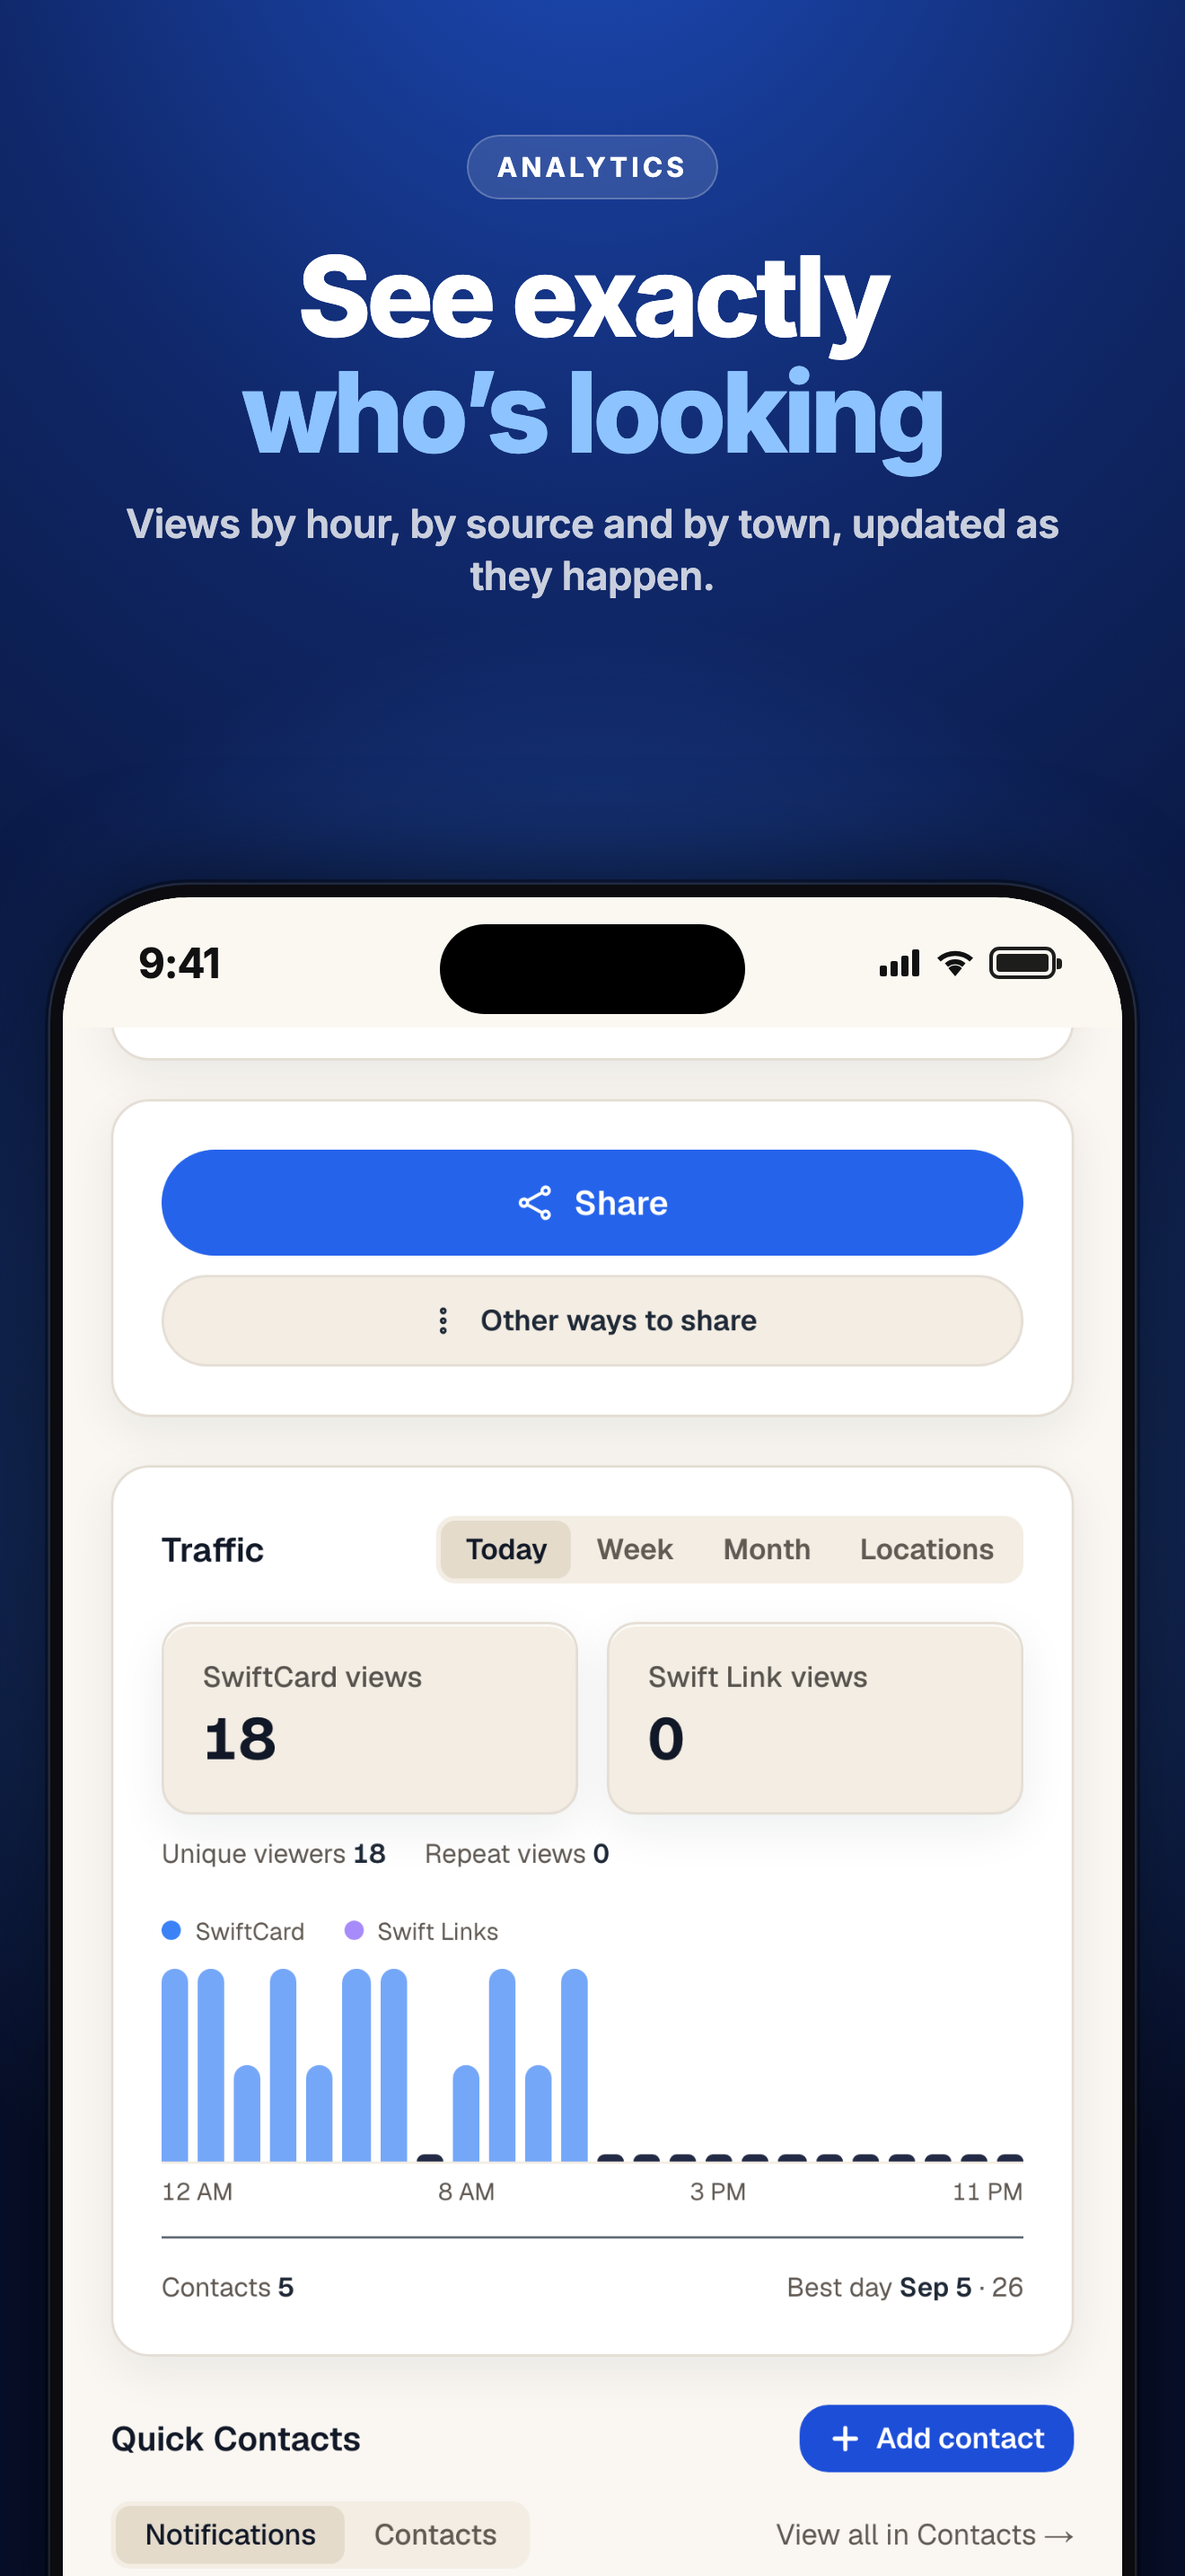
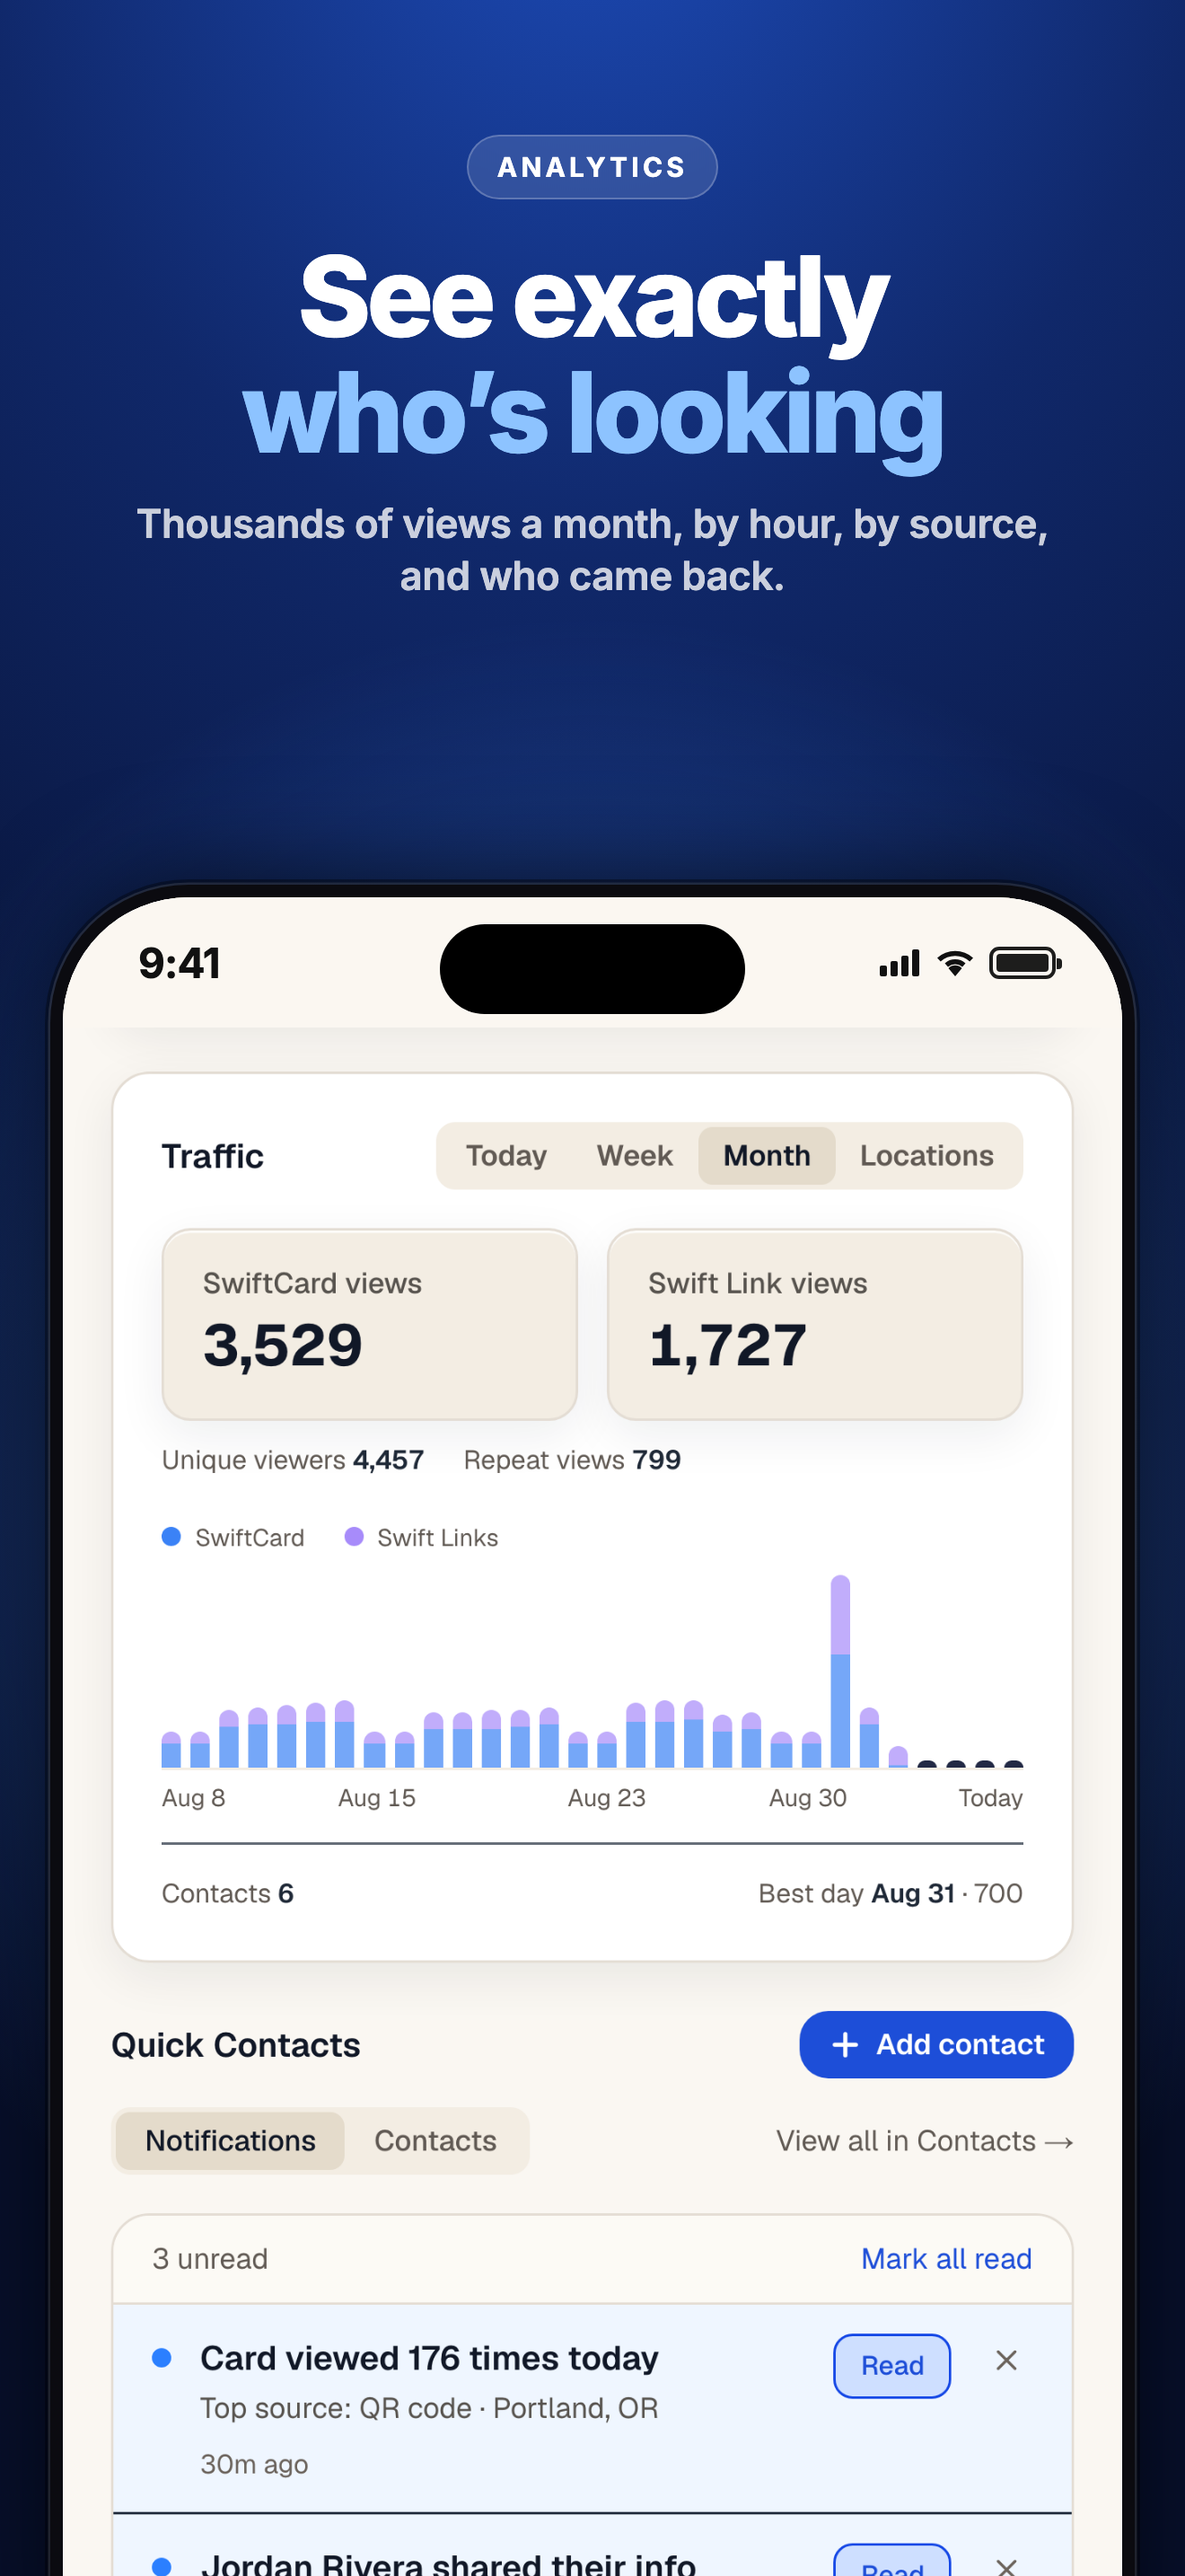
App Store screenshots v3: busy Pro account seed, ten frames
Seed a month of views on both surfaces (thousands), six fully filled
contacts with notes, where-met, share-back messages, consent and running
email+text sequences with real first names, card_events, a sent follow-up
with a reply, and notifications. Shoot the public card with the share-back
form filled in, the dashboard on the Month and Locations tabs, and the
contact panel scrolled to its automations (it scrolls inside a container).
Cleanup covers every table the seed touches.

Claude-Session: https://claude.ai/code/session_015rMqrGrkAJm7Htgrv2DftG

Changed region(s): [[0.0932, 0.4344, 0.9318, 1.0], [0.0932, 0.1862, 0.6833, 0.2483], [0.7144, 0.1862, 0.9008, 0.2172]]

diff --git a/app-store/screenshots/6.9-inch-v3/README.md b/app-store/screenshots/6.9-inch-v3/README.md
@@ -1,29 +1,40 @@
 # 6.9-inch App Store screenshots (1320 × 2868) — v3
 
-Eight frames, built 2026-09-06, replacing the v2 set. Same persona (Lena
-Brooks, photographer), same real screens, a stronger frame.
+Ten frames (Apple's maximum), built 2026-09-06, replacing the v2 set. Same
+persona (Lena Brooks, photographer), real screens, a busier account and a
+stronger frame.
 
 ## What changed from v2, and why
 
+- **The account behind the screens is a working Pro account.** v2's seed had
+  five contacts with no notes, zero Swift Link views, "No notifications yet"
+  and a fortnight of double-digit view days — an empty product. The seed now
+  writes a month of views on both surfaces (≈4,300 card, ≈2,000 Swift Links,
+  one spike day, weekend dips, repeat visitors), six contacts with company,
+  town, where-you-met, notes, a share-back message, `sms-ok` consent and a
+  running email + text sequence (day-0 items already sent), card_events for
+  the Conversation tab, a sent follow-up with a reply in `lead_messages`, and
+  three notifications. Nothing on any frame reads "No notes", "Not set",
+  "no flow" or `0`.
+- **The share-back is shown happening.** Frame 02 is the public card with
+  the "Share your info with Lena" form filled in as Jordan; frame 03 has
+  Jordan in Contacts; frames 04–05 open Jordan's record. One lead, followed
+  from the tap to the follow-up.
 - **The phone is bigger and runs off the bottom edge.** A search-result
-  thumbnail is ~200px tall. v2 fitted the whole phone inside the frame, so the
-  app itself was a third of the pixels. v3 lets the device bleed off the
-  bottom, which is how every top-grossing listing buys screen size.
-- **Status bar and Dynamic Island inside the glass.** The captures are web
-  renders with no system chrome; a bare page in a phone silhouette read as a
-  website in a picture frame. Light pages get a bar in their own page colour,
-  the Swift Links photo cover gets white glyphs laid over the image.
+  thumbnail is ~200px tall; v2 fitted the whole phone inside the frame, so
+  the app was a third of the pixels.
+- **Status bar and Dynamic Island inside the glass.** Bare web renders in a
+  phone silhouette read as a website in a picture frame.
 - **A kicker pill names the feature** above the headline, and one phrase per
-  headline is set in the accent tint. v2's flat white text had no hierarchy.
+  headline is set in the accent tint.
 - **The tab bar no longer floats mid-screen.** Full-page captures paint
-  position:fixed chrome once at the first viewport's bottom edge, so v2's
-  dashboard frame had the tab bar sitting above the traffic chart.
-  `appstore-capture.mjs` now hides `.sc-tabbar` and `.sc-help-bubble` for
-  full-page shots.
-- **Crops start on clean edges.** Every y offset was chosen from the capture
-  on disk so no frame opens on a half-sliced card or ends on a half button.
-- **Nine frames became eight.** v2's fifth frame (Swift Links tiles) showed
-  the same page as the fourth once the links went compact.
+  position:fixed chrome once at the first viewport's bottom edge; v2's
+  dashboard frame had the tab bar above the chart. `appstore-capture.mjs`
+  hides `.sc-tabbar` and `.sc-help-bubble` for full-page shots.
+- **The contact detail scrolls inside a panel**, so a full-page shot stops at
+  the first automation card. The capture scrolls the panel to "Notes &
+  context" and takes a viewport shot (`contact-detail-automations`).
+- **Crops start on clean edges**, chosen from the capture on disk.
 
 ## The set, in listing order
 
@@ -32,17 +43,20 @@ Search results show the first three, so the story has to land there.
 | # | Kicker | Caption | Screen |
 |---|---|---|---|
 | 01 | Digital business card | Your card. One link. | public card, top |
-| 02 | Save contact | They save you in one tap | Save Contact + share-back form |
-| 03 | Contacts | Every lead, in your pocket | Contacts with source badges |
-| 04 | Swift Links | All your links, one page | cover photo, bio, socials, links |
-| 05 | Swift Signature | Your card in every email | signature preview dialog |
-| 06 | Analytics | See exactly who's looking | Share buttons + traffic chart |
-| 07 | Share | QR, NFC and Apple Wallet | Share options incl. Add to Apple Wallet |
-| 08 | Follow-ups | It writes the follow-up for you | contact detail → automations |
+| 02 | Share back | They save you, then share back | Save Contact + the share-back form filled in |
+| 03 | Contacts | Every lead, in your pocket | six contacts with source badges |
+| 04 | Contact | Who they are, where you met | Jordan: contact info, notes, where met |
+| 05 | Follow-ups | It writes the follow-up for you | notes → automations, email sequence on, day-0 sent |
+| 06 | Analytics | See exactly who's looking | Month: 3,529 / 1,727 views, 30-bar chart, notifications |
+| 07 | Locations | Know which towns find you | Locations tab, eight towns split card / links |
+| 08 | Swift Links | All your links, one page | cover photo, bio, socials, links |
+| 09 | Swift Signature | Your card in every email | signature preview dialog |
+| 10 | Share | QR, NFC and Apple Wallet | Share options incl. Add to Apple Wallet |
 
 Every frame is a real screen of the running app (Apple 2.3.3): a caption, a
 status bar and a device frame around a real capture are allowed, a mocked-up
-slide is not.
+slide is not. The numbers are seeded, not invented on the frame — they are
+what the app computed from the rows the seed wrote.
 
 ## Regenerating
 
@@ -50,8 +64,9 @@ slide is not.
     node scripts/appstore-compose.mjs     # framed set    → this directory
 
 The capture script creates a throwaway Supabase account on whatever
-`.env.local` points at, seeds it, drives a real login, and deletes everything
-in a finally block. See the comments in it for the traps it encodes.
+`.env.local` points at, seeds it, drives a real login, and deletes every row
+it wrote (card_views on both keys, card_events, lead_messages, notifications,
+leads, card, profile, auth user) in a finally block.
 
 ## Uploading
 
@@ -62,4 +77,5 @@ is live and cannot accept screenshots. Target the pending version:
       node scripts/asc-upload-screenshots.mjs app-store/screenshots/6.9-inch-v3
 
 It deletes and recreates the APP_IPHONE_67 set, so the listing mirrors this
-directory exactly rather than appending.
+directory exactly rather than appending. A version that is Waiting for Review
+refuses the delete (409) — remove it from review first.
